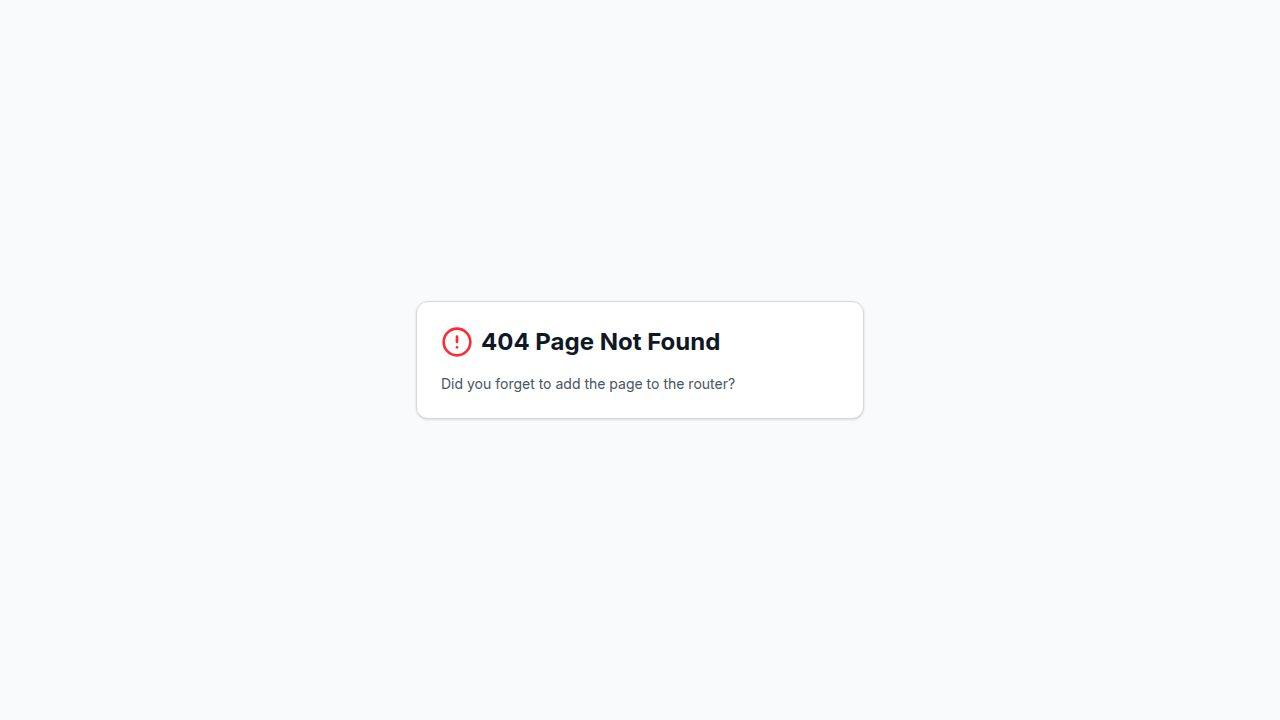
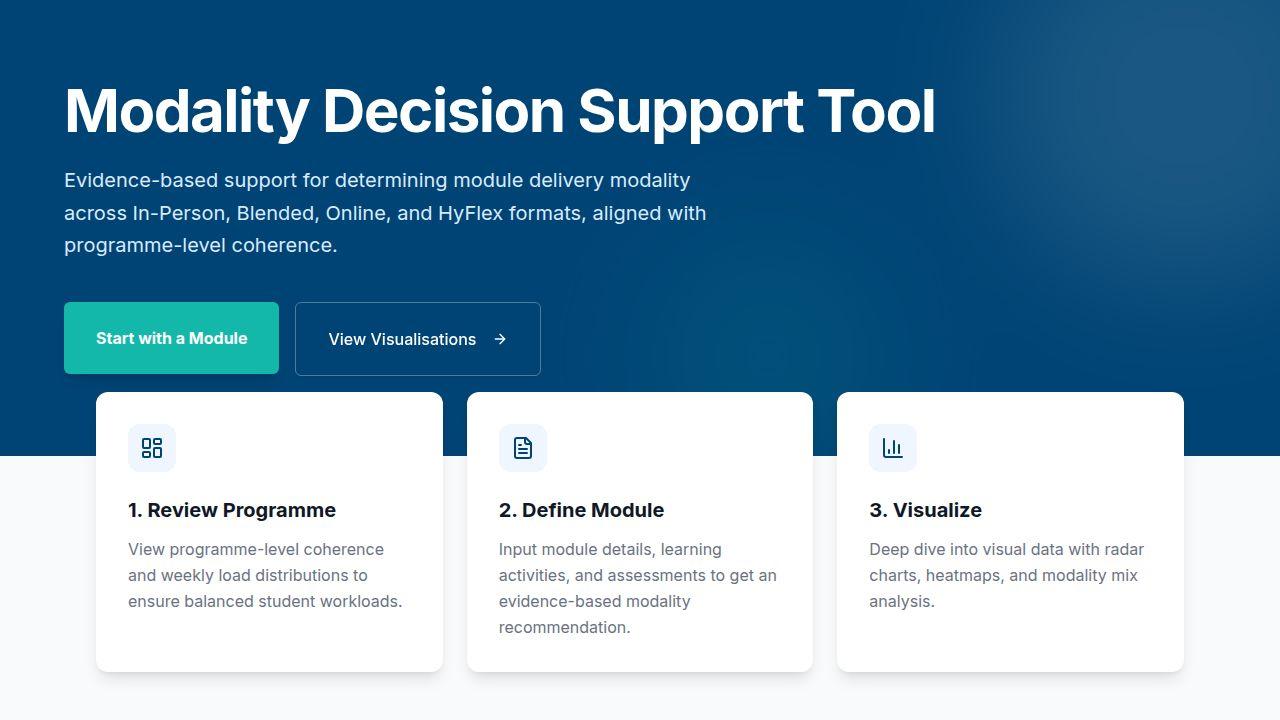
Update home page and global styles to match visual reference
Revamp the home page and global CSS to align with the provided visual reference, specifically updating the navigation bar, color palette, hero section, and action buttons.

Replit-Commit-Author: Agent
Replit-Commit-Session-Id: ff6f130c-e0b8-4e1a-aa0c-6505bdf28567
Replit-Commit-Checkpoint-Type: full_checkpoint
Replit-Commit-Event-Id: 9c6da779-6915-4809-9de5-92a23340a2ab
Replit-Commit-Screenshot-Url: https://storage.googleapis.com/screenshot-production-us-central1/58466493-8af0-4ab3-aa61-cd0ef4400cbc/ff6f130c-e0b8-4e1a-aa0c-6505bdf28567/I5N1Pp5

diff --git a/client/src/pages/Home.tsx b/client/src/pages/Home.tsx
@@ -1,111 +1,104 @@
 import React from "react";
 import { Link } from "wouter";
-import { Card, CardContent, CardDescription, CardHeader, CardTitle } from "@/components/ui/card";
 import { Button } from "@/components/ui/button";
-import { ArrowRight, BookOpen, LayoutDashboard, BarChart3, Info } from "lucide-react";
+import { ArrowRight, LayoutDashboard, BarChart3, FileText } from "lucide-react";
+import { Card, CardContent } from "@/components/ui/card";
 
 export default function Home() {
   return (
-    <div className="space-y-8">
+    <div className="min-h-[calc(100vh-4rem)] bg-gray-50 flex flex-col">
       {/* Hero Section */}
-      <section className="text-center space-y-4 py-12">
-        <h1 className="text-4xl font-extrabold tracking-tight text-primary sm:text-5xl md:text-6xl">
-          Modality Decision Support Tool
-        </h1>
-        <p className="max-w-3xl mx-auto text-xl text-muted-foreground">
-          Evidence-based support for determining module delivery modality across In-Person, Blended, Online, and HyFlex formats, aligned with programme-level coherence.
-        </p>
-      </section>
-
-      {/* Action Cards */}
-      <section className="grid grid-cols-1 md:grid-cols-3 gap-6">
-        <Link href="/module">
-          <Card className="hover:shadow-lg transition-shadow cursor-pointer border-t-4 border-t-primary h-full">
-            <CardHeader>
-              <CardTitle className="flex items-center gap-2">
-                <BookOpen className="h-6 w-6 text-primary" />
+      <div className="bg-primary py-20 px-4 sm:px-6 lg:px-8 relative overflow-hidden">
+        <div className="absolute inset-0 opacity-10 pointer-events-none">
+             <div className="absolute -top-24 -right-24 w-96 h-96 rounded-full bg-white blur-3xl"></div>
+             <div className="absolute top-1/2 left-1/2 w-64 h-64 rounded-full bg-secondary blur-3xl"></div>
+        </div>
+        
+        <div className="max-w-6xl mx-auto relative z-10">
+          <h1 className="text-4xl md:text-6xl font-extrabold text-white tracking-tight mb-6">
+            Modality Decision Support Tool
+          </h1>
+          <p className="text-lg md:text-xl text-blue-100 max-w-2xl mb-10 leading-relaxed">
+            Evidence-based support for determining module delivery modality across In-Person, Blended, Online, and HyFlex formats, aligned with programme-level coherence.
+          </p>
+          
+          <div className="flex flex-wrap gap-4">
+            <Link href="/module">
+              <Button size="lg" className="bg-secondary hover:bg-secondary/90 text-white font-bold px-8 py-6 text-base h-auto shadow-lg hover:shadow-xl transition-all border-0 rounded-md">
                 Start with a Module
-              </CardTitle>
-              <CardDescription>
-                Get an evidence-based modality recommendation for a single module.
-              </CardDescription>
-            </CardHeader>
-            <CardContent>
-              <Button className="w-full group">
-                Go to Module Tool <ArrowRight className="ml-2 h-4 w-4 group-hover:translate-x-1 transition-transform" />
               </Button>
-            </CardContent>
-          </Card>
-        </Link>
-
-        <Link href="/programme">
-          <Card className="hover:shadow-lg transition-shadow cursor-pointer border-t-4 border-t-secondary h-full">
-            <CardHeader>
-              <CardTitle className="flex items-center gap-2">
-                <LayoutDashboard className="h-6 w-6 text-secondary" />
-                Review a Programme
-              </CardTitle>
-              <CardDescription>
-                View programme-level coherence and weekly load distributions.
-              </CardDescription>
-            </CardHeader>
-            <CardContent>
-              <Button variant="outline" className="w-full group">
-                View Dashboard <ArrowRight className="ml-2 h-4 w-4 group-hover:translate-x-1 transition-transform" />
+            </Link>
+            
+            <Link href="/visualisations">
+              <Button size="lg" variant="outline" className="bg-transparent text-white border-white/30 hover:bg-white/10 font-medium px-8 py-6 text-base h-auto backdrop-blur-sm">
+                View Visualisations <ArrowRight className="ml-2 h-5 w-5" />
               </Button>
-            </CardContent>
-          </Card>
-        </Link>
-
-        <Link href="/visualisations">
-          <Card className="hover:shadow-lg transition-shadow cursor-pointer border-t-4 border-t-accent-foreground h-full">
-            <CardHeader>
-              <CardTitle className="flex items-center gap-2">
-                <BarChart3 className="h-6 w-6 text-accent-foreground" />
-                Explore Visualisations
-              </CardTitle>
-              <CardDescription>
-                Deep dive into visual data across modules and programmes.
-              </CardDescription>
-            </CardHeader>
-            <CardContent>
-              <Button variant="outline" className="w-full group">
-                See Charts <ArrowRight className="ml-2 h-4 w-4 group-hover:translate-x-1 transition-transform" />
-              </Button>
-            </CardContent>
-          </Card>
-        </Link>
-      </section>
-
-      {/* How it works */}
-      <section className="bg-muted/30 rounded-xl p-8 border border-border">
-        <div className="flex items-start gap-4">
-          <Info className="h-8 w-8 text-primary shrink-0 mt-1" />
-          <div className="space-y-4">
-            <h2 className="text-2xl font-bold text-foreground">How this tool works</h2>
-            <div className="grid md:grid-cols-3 gap-8">
-              <div className="space-y-2">
-                <h3 className="font-semibold text-primary">Evidence-Based Decisions</h3>
-                <p className="text-sm text-muted-foreground">
-                  Module decisions are informed by learning design, assessment suitability, learner profile, stage appropriateness, and resource constraints.
-                </p>
-              </div>
-              <div className="space-y-2">
-                <h3 className="font-semibold text-primary">Programme Coherence</h3>
-                <p className="text-sm text-muted-foreground">
-                  The programme view allows teams to see how individual module decisions aggregate into a coherent student experience with balanced weekly loads.
-                </p>
-              </div>
-              <div className="space-y-2">
-                <h3 className="font-semibold text-primary">Collegial Support</h3>
-                <p className="text-sm text-muted-foreground">
-                  There are no approvals or sign-offs in this tool. It is designed to support collegial discussion and design, not hierarchical control.
-                </p>
-              </div>
-            </div>
+            </Link>
           </div>
         </div>
-      </section>
+      </div>
+
+      {/* Cards Section */}
+      <div className="max-w-6xl mx-auto px-4 sm:px-6 lg:px-8 -mt-16 relative z-20 pb-12">
+        <div className="grid grid-cols-1 md:grid-cols-3 gap-6">
+          
+          {/* Card 1 */}
+          <Link href="/programme">
+            <Card className="h-full hover:shadow-xl transition-all duration-300 border-0 shadow-lg group cursor-pointer overflow-hidden">
+              <CardContent className="p-8">
+                <div className="w-12 h-12 bg-blue-50 rounded-xl flex items-center justify-center mb-6 group-hover:bg-primary/10 transition-colors">
+                  <LayoutDashboard className="h-6 w-6 text-primary" />
+                </div>
+                <h3 className="text-xl font-bold text-gray-900 mb-3">1. Review Programme</h3>
+                <p className="text-gray-500 leading-relaxed">
+                  View programme-level coherence and weekly load distributions to ensure balanced student workloads.
+                </p>
+              </CardContent>
+            </Card>
+          </Link>
+
+          {/* Card 2 */}
+          <Link href="/module">
+            <Card className="h-full hover:shadow-xl transition-all duration-300 border-0 shadow-lg group cursor-pointer overflow-hidden">
+              <CardContent className="p-8">
+                <div className="w-12 h-12 bg-blue-50 rounded-xl flex items-center justify-center mb-6 group-hover:bg-primary/10 transition-colors">
+                  <FileText className="h-6 w-6 text-primary" />
+                </div>
+                <h3 className="text-xl font-bold text-gray-900 mb-3">2. Define Module</h3>
+                <p className="text-gray-500 leading-relaxed">
+                  Input module details, learning activities, and assessments to get an evidence-based modality recommendation.
+                </p>
+              </CardContent>
+            </Card>
+          </Link>
+
+          {/* Card 3 */}
+          <Link href="/visualisations">
+            <Card className="h-full hover:shadow-xl transition-all duration-300 border-0 shadow-lg group cursor-pointer overflow-hidden">
+              <CardContent className="p-8">
+                <div className="w-12 h-12 bg-blue-50 rounded-xl flex items-center justify-center mb-6 group-hover:bg-primary/10 transition-colors">
+                  <BarChart3 className="h-6 w-6 text-primary" />
+                </div>
+                <h3 className="text-xl font-bold text-gray-900 mb-3">3. Visualize</h3>
+                <p className="text-gray-500 leading-relaxed">
+                  Deep dive into visual data with radar charts, heatmaps, and modality mix analysis.
+                </p>
+              </CardContent>
+            </Card>
+          </Link>
+
+        </div>
+      </div>
+      
+      {/* Bottom Info Section */}
+      <div className="bg-white border-t py-12 mt-auto">
+         <div className="max-w-6xl mx-auto px-4 text-center">
+            <p className="text-sm text-muted-foreground max-w-2xl mx-auto">
+               This tool is designed to support collegial discussion and design. There are no approvals or sign-offs required. 
+               Decisions are informed by learning design, assessment suitability, learner profile, and resource constraints.
+            </p>
+         </div>
+      </div>
     </div>
   );
 }

diff --git a/client/src/components/Layout.tsx b/client/src/components/Layout.tsx
@@ -1,66 +1,82 @@
 import React, { useState } from "react";
 import { Link, useLocation } from "wouter";
-import { LayoutDashboard, BookOpen, BarChart3, Home as HomeIcon } from "lucide-react";
+import { LayoutDashboard, BookOpen, BarChart3, Home as HomeIcon, Layers } from "lucide-react";
 import { cn } from "@/lib/utils";
+import { Button } from "@/components/ui/button";
 
 export function Layout({ children }: { children: React.ReactNode }) {
   const [location] = useLocation();
 
   const navItems = [
     { href: "/", label: "Home", icon: HomeIcon },
-    { href: "/module", label: "Module", icon: BookOpen },
     { href: "/programme", label: "Programme", icon: LayoutDashboard },
+    { href: "/module", label: "Modules", icon: BookOpen },
     { href: "/visualisations", label: "Visualisations", icon: BarChart3 },
   ];
 
   return (
     <div className="min-h-screen bg-background font-sans flex flex-col">
       {/* Top Navigation */}
-      <nav className="bg-white border-b border-border sticky top-0 z-50 shadow-sm">
+      <nav className="bg-primary text-white sticky top-0 z-50 shadow-md border-b border-primary-foreground/10">
         <div className="max-w-7xl mx-auto px-4 sm:px-6 lg:px-8">
-          <div className="flex justify-between h-16">
-            <div className="flex">
-              <div className="flex-shrink-0 flex items-center">
-                <span className="text-xl font-bold text-primary tracking-tight">MDST</span>
+          <div className="flex justify-between h-16 items-center">
+            
+            {/* Logo Area */}
+            <div className="flex items-center gap-3">
+              <div className="bg-secondary/20 p-1.5 rounded-md">
+                 <Layers className="h-6 w-6 text-secondary-foreground" />
               </div>
-              <div className="hidden sm:ml-8 sm:flex sm:space-x-8">
-                {navItems.map((item) => (
+              <span className="text-lg font-bold tracking-tight text-white">MDST Tool</span>
+            </div>
+
+            {/* Desktop Nav */}
+            <div className="hidden md:flex items-center space-x-1">
+              {navItems.map((item) => {
+                 const isActive = location === item.href || (item.href !== "/" && location.startsWith(item.href));
+                 return (
                   <Link key={item.href} href={item.href}>
                     <a
                       className={cn(
-                        "inline-flex items-center px-1 pt-1 border-b-2 text-sm font-medium h-full transition-colors",
-                        location === item.href
-                          ? "border-primary text-primary"
-                          : "border-transparent text-muted-foreground hover:border-gray-300 hover:text-foreground"
+                        "inline-flex items-center px-4 py-2 rounded-md text-sm font-medium transition-all duration-200",
+                        isActive
+                          ? "bg-secondary text-white shadow-sm"
+                          : "text-white/80 hover:text-white hover:bg-white/10"
                       )}
                     >
-                      <item.icon className="w-4 h-4 mr-2" />
+                      <item.icon className={cn("w-4 h-4 mr-2", isActive ? "text-white" : "text-white/70")} />
                       {item.label}
                     </a>
                   </Link>
-                ))}
-              </div>
+                );
+              })}
             </div>
-            <div className="flex items-center">
-               <span className="text-xs text-muted-foreground">TU Dublin Modality Tool</span>
+
+            {/* Mobile Menu Placeholder (Optional) */}
+            <div className="md:hidden">
+               <Button variant="ghost" size="sm" className="text-white hover:bg-white/10">
+                  Menu
+               </Button>
             </div>
           </div>
         </div>
       </nav>
 
       {/* Main Content */}
-      <main className="flex-grow">
-        <div className="max-w-7xl mx-auto py-6 sm:px-6 lg:px-8">
+      <main className="flex-grow bg-gray-50">
           {children}
-        </div>
       </main>
 
       {/* Footer */}
-      <footer className="bg-white border-t border-border mt-auto">
-        <div className="max-w-7xl mx-auto py-6 px-4 sm:px-6 lg:px-8">
-          <p className="text-center text-sm text-muted-foreground">
-            &copy; {new Date().getFullYear()} Modality Decision Support Tool. Evidence-based decision support.
+      <footer className="bg-white border-t border-border">
+        <div className="max-w-7xl mx-auto py-8 px-4 sm:px-6 lg:px-8 flex flex-col md:flex-row justify-between items-center gap-4">
+          <p className="text-sm text-muted-foreground">
+            &copy; {new Date().getFullYear()} Modality Decision Support Tool.
           </p>
+          <div className="text-sm text-muted-foreground flex gap-4">
+             <span>Evidence-based decision support</span>
+             <span>•</span>
+             <span>Collegial Design</span>
+          </div>
         </div>
       </footer>
     </div>

diff --git a/client/src/index.css b/client/src/index.css
@@ -9,13 +9,13 @@
   --radius-lg: var(--radius);
   --radius-xl: calc(var(--radius) + 4px);
   
-  /* TU Dublin Palette Approximation */
-  /* Primary Blue */
-  --color-primary: hsl(202 100% 26%); /* #005587 */
+  /* Updated Palette to match Reference Image */
+  /* Primary: Deep Navy Blue */
+  --color-primary: hsl(205 100% 23%); /* #003B73 approx - Deep Blue */
   --color-primary-foreground: hsl(0 0% 100%);
 
-  /* Secondary / Accent */
-  --color-secondary: hsl(198 100% 45%); /* Light Blue */
+  /* Secondary: Teal/Green */
+  --color-secondary: hsl(175 80% 40%); /* #14b8a6 approx - Teal */
   --color-secondary-foreground: hsl(0 0% 100%);
 
   /* Backgrounds */
@@ -39,11 +39,11 @@
 
   --color-border: hsl(210 15% 85%);
   --color-input: hsl(210 15% 85%);
-  --color-ring: hsl(202 100% 26%);
+  --color-ring: hsl(175 80% 40%); /* Ring matches secondary teal */
 
-  --color-chart-1: hsl(202 100% 26%); /* In-Person */
-  --color-chart-2: hsl(198 80% 50%); /* Blended */
-  --color-chart-3: hsl(170 70% 45%); /* Online */
+  --color-chart-1: hsl(205 100% 23%); /* In-Person */
+  --color-chart-2: hsl(175 80% 40%); /* Blended */
+  --color-chart-3: hsl(190 70% 45%); /* Online */
   --color-chart-4: hsl(280 60% 60%); /* HyFlex */
   --color-chart-5: hsl(35 90% 55%);
 